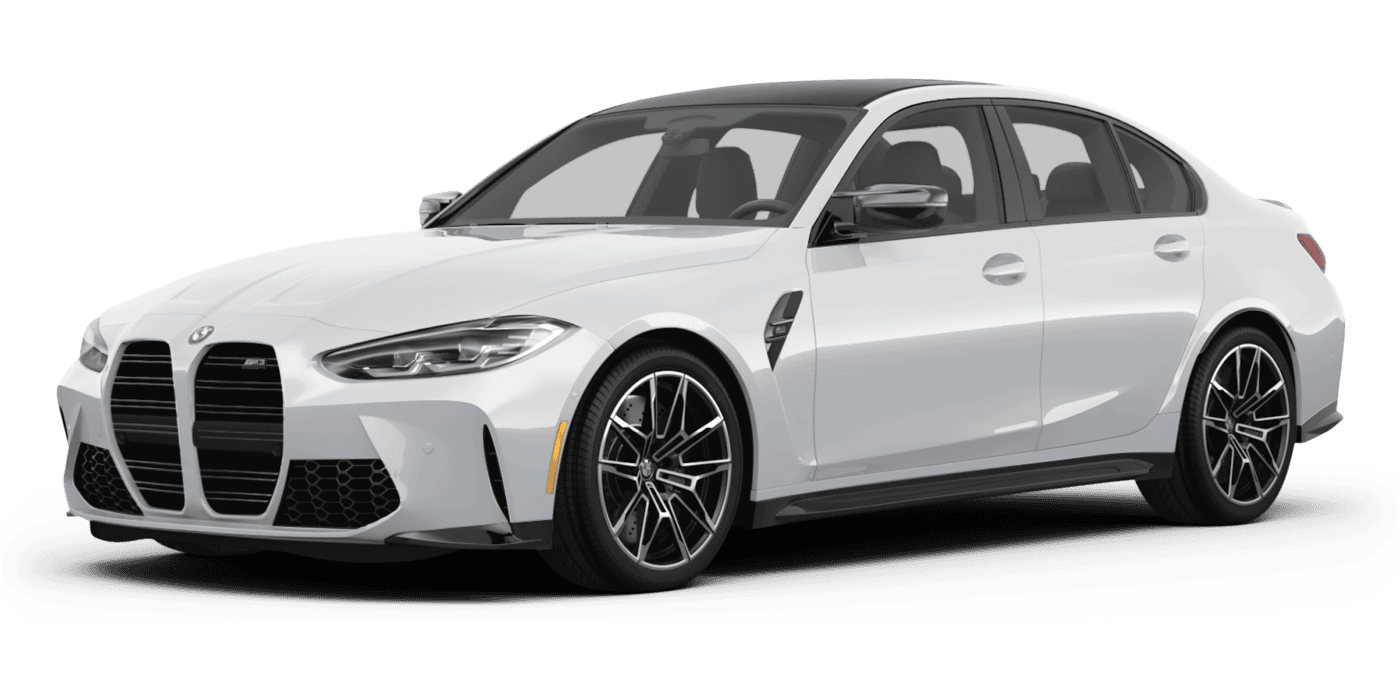
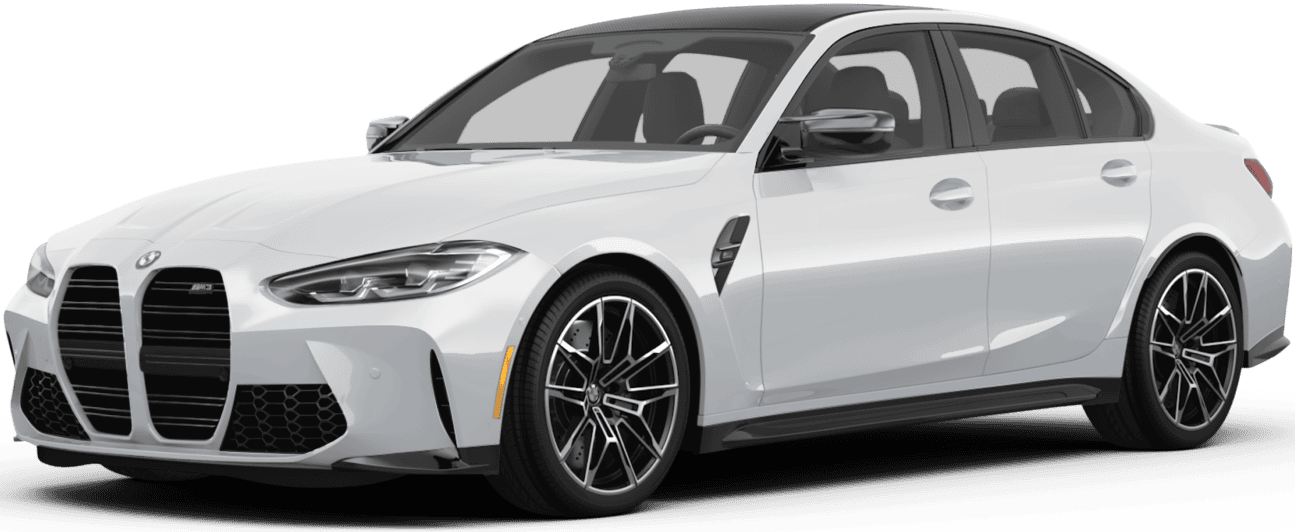
m3selection image rendered sucessfully without the nav bar disappearing

diff --git a/src/styles/index.css b/src/styles/index.css
@@ -189,6 +189,9 @@ p {
     animation: fade-in 1s ease forwards;
 }
 
+.m3selected {
+    z-index: -2;
+}
 :root {
     --bar-width: 60px;
     --bar-height: 8px;
@@ -206,12 +209,13 @@ p {
     flex-direction: column;
     gap: var(--hamburger-gap);
     width: max-content;
-    position: absolute;
+    position: fixed;
     top: var(--hamburger-margin);
     left: var(--hamburger-margin);
     z-index: 2;
     cursor: pointer;
     animation: fade-in 3s ease forwards;
+    z-index: 3;
 }
 
 .hamburger::before, .hamburger::after, .hamburger input {
@@ -252,13 +256,15 @@ p {
 
 .sidebar {
     transition: translate var(--animation-timing);
+    position: fixed;
     translate: -100%;
     padding: 0.5rem 1rem;
     padding-top: calc(var(--hamburger-height) + var(--hamburger-margin) + 2rem);
     background-color: #8B0000;
     max-width: 10rem;
-    min-height: 100vh;
+    min-height: 1000vh;
     opacity: 0.9;
+    z-index: 2;
 }
 
 .hamburger:has(input:checked) + .sidebar {
@@ -270,6 +276,7 @@ p {
     cursor: pointer;
     width: 55%;
     height: auto;
+    z-index: 3;
 }
 
 .git {
@@ -278,6 +285,7 @@ p {
     padding-bottom: 1rem;
     margin-left: 5px;
     cursor: pointer;
+    z-index: 3;
 }
 
 .linked {
@@ -287,6 +295,7 @@ p {
     margin-left: 5px;
     height: auto;
     cursor: pointer;
+    z-index: 3;
 }
 
 .mperf {
@@ -294,9 +303,17 @@ p {
     padding-left: 6.5rem;
     left: 0%;
     opacity: 0.7;
+    z-index: 3;
 }
 
-
+.M32021 {
+    position: absolute;
+    right: 0%;
+    top: 67%;
+    width: 60%;
+    height: auto;
+    z-index: -1;
+}
 
 @media screen and (max-width: 768px) {
     h1 {

diff --git a/src/index.js b/src/index.js
@@ -214,7 +214,7 @@ function selectionView(){
 
 function m3Selection() {
     const m3select = document.getElementById('m3selection')
-    const background = document.createElement('img')
+    const content = document.getElementById('content')
     const menu = document.createElement('label')
     const check = document.createElement('input')
     const aside = document.createElement('aside')
@@ -225,15 +225,17 @@ function m3Selection() {
     const gitdiv = document.createElement('div')
     const github = document.createElement('img')
     const mperf = document.createElement('img')
+    const m32021 = document.createElement('img')
 
-    background.src = 'Assets/databackground.jpeg'
     mperf.src = 'Assets/mperf.png'
     linkedin.src = 'Assets/linkedin.png'
     github.src = 'Assets/github.png'
     home.src = 'Assets/home.png'
+    m32021.src = 'Assets/2021M3.png'
 
     home.setAttribute('class', 'home')
-    background.setAttribute('class', 'background')
+    m3select.setAttribute('class', 'm3selected')
+    m32021.setAttribute('class', "M32021")
     aside.setAttribute('class', 'sidebar')
     menu.setAttribute('class', 'hamburger')
     check.setAttribute('type', 'checkbox')
@@ -242,6 +244,7 @@ function m3Selection() {
     github.setAttribute('class', 'git')
 
     m3select.appendChild(menu)
+    content.appendChild(m32021)
     m3select.appendChild(aside)
     menu.appendChild(check)
     aside.appendChild(nav)

diff --git a/index.html b/index.html
@@ -21,7 +21,9 @@
 
     </div>
     <div id="m3selection">
-
+        <div id="content">
+        
+        </div>
     </div>
     <div id="m5selection">
 

diff --git a/README 2.md b/README 2.md
@@ -1,0 +1,52 @@
+Description:
+
+The "BMW Ultimate Experience Interactive Demo" is a digital showcase that offers automotive enthusiasts and BMW fans an immersive and engaging exploration of the iconic BMW M3 and M5 models. This interactive experience combines technology, design, and performance to provide users with a unique opportunity to learn, engage, and appreciate these high-performance vehicles.
+
+Pre-Main Page:
+
+Upon volume slider adjustment, the user will be provided with a corresponding volume level ping audio to let the user hear their current volume level.
+
+![PreMainScreen](https://github.com/seanieboi6687/JSP_BmwExperience/assets/101304652/68dc6322-f61f-4ddd-a68a-9550fe96e777)
+
+Main Page:
+
+After a short video, not shown on the screenshot, the 'Start Stop' button will fade in on the screen. The user will click on the 'Start Stop' button, which will be followed up by a roaring engine sound.
+
+![pushtostartpage](https://github.com/seanieboi6687/JSP_BmwExperience/assets/101304652/dcfc8074-63c8-4309-b3f5-870c76748cde)
+
+Model Selection Page:
+
+![Selectionpage](https://github.com/seanieboi6687/JSP_BmwExperience/assets/101304652/bb75fe6b-44e5-49a5-a332-ac61fe289064)
+
+One of the M3 model Pages:
+
+There will be layers of images to implement a parallax scrolling effect.
+
+![m3screen](https://github.com/seanieboi6687/JSP_BmwExperience/assets/101304652/6dd64838-5538-4582-b539-87856a865c83)
+
+Main Car Display Page Wireframe:
+
+![Screenshot 2023-08-23 at 9 20 29 PM](https://github.com/seanieboi6687/JSP_BmwExperience/assets/101304652/65ba2cc4-1df3-4930-bb3d-86c77b8b4b29)
+
+Functionality & MVPs:
+
+With this BMW Ultimate Experience, users will be able to...
+- Choose which of the two iconic BMW M models they would like to view.
+- Scroll up and down to view different generations of corresponding BMW M car.
+- Listen to the corresponding car's engine note; if available.
+
+Technologies, Libraries, APIs:
+
+- Webpack
+- NPM
+- API Ninjas: Cars API
+- simplePARALLAX.js
+
+Implementation Timeline:
+- Thursday/Friday: Set up the skeleton, research ways to implement technologies/APIs in the project, and start on the frontend (background, header, and main body template).
+- Friday: Focus on implementing code to ensure the website dynamically renders correct info based on the currently active tab.
+- Saturday/Sunday: Add vehicle information via carsAPI, implement parallax scrolling feature via CSS and simplePARALLAX.js, and finish basic vehicle information sections.
+- Monday: Incorporated vehicle illustrations and include dynamic hamburger menu button (Hamburger menu button will change to 'X' upon click).
+- Tuesday: Work on including personal links, and audio, and look for any possible bugs that may occur.
+- Wednesday: Make sure all of the audio files are in sync with user interactions / Deploy.
+
